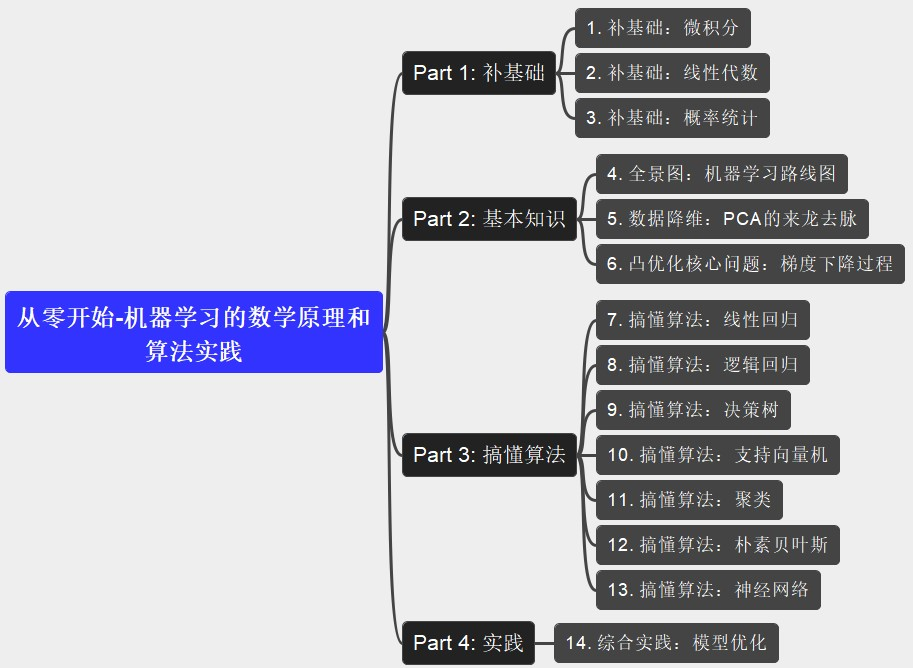
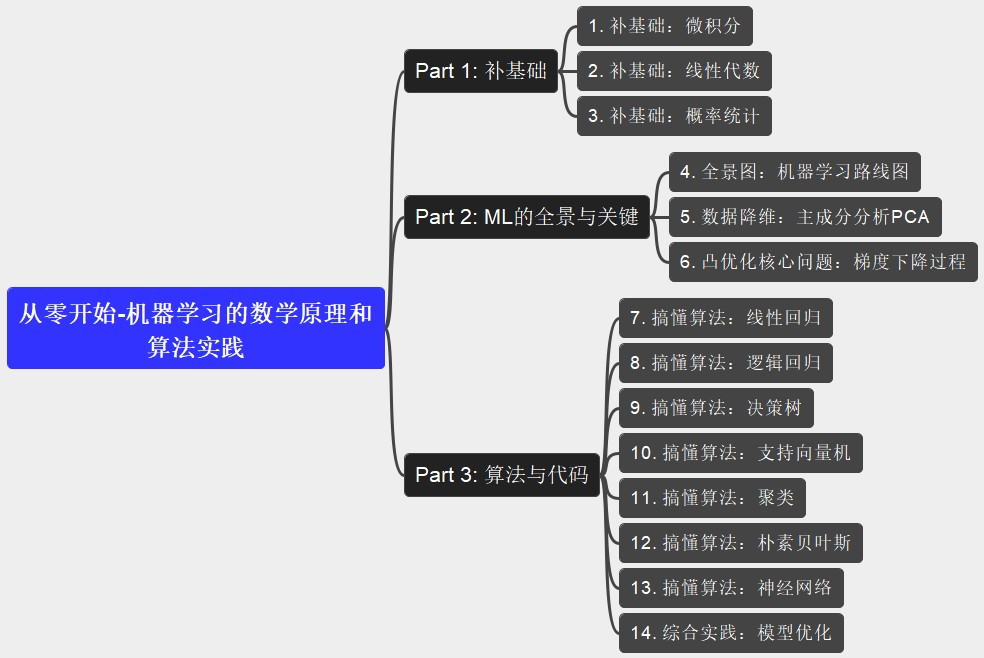
update

Changed region(s): [[0.0, 0.0, 1.0, 1.0]]

diff --git a/ML/从零开始-机器学习的数学原理和算法实践.mm b/ML/从零开始-机器学习的数学原理和算法实践.mm
@@ -83,16 +83,57 @@
 </map_styles>
 </hook>
 <node TEXT="Part 1: 补基础" POSITION="bottom_or_right" ID="ID_1837430732" CREATED="1733052768808" MODIFIED="1733052780844">
-<node TEXT="1. 补基础：微积分" POSITION="bottom_or_right" ID="ID_220490043" CREATED="1733052524035" MODIFIED="1733052595216"/>
+<node TEXT="1. 补基础：微积分" POSITION="bottom_or_right" ID="ID_220490043" CREATED="1733052524035" MODIFIED="1733052595216">
+<node TEXT="1.1 导数" ID="ID_125107977" CREATED="1733053779894" MODIFIED="1733053782966">
+<node TEXT="导数典型的应用场景就是对瞬时速度的求解" ID="ID_154356424" CREATED="1733056272078" MODIFIED="1733056295729">
+<arrowlink DESTINATION="ID_1980856802"/>
+</node>
+<node TEXT="导数描述了自变量的微小变化导致因变量微小变化的关系" ID="ID_1580927264" CREATED="1733057015495" MODIFIED="1733057039115"/>
+<node TEXT="复合函数求导" ID="ID_100216516" CREATED="1733057481259" MODIFIED="1733057488197">
+<node TEXT="加法法则" ID="ID_1727643337" CREATED="1733057488204" MODIFIED="1733057496851">
+<node TEXT="基本函数相加形成的复合函数导数等于基本函数导数之和" ID="ID_1178242810" CREATED="1733057556103" MODIFIED="1733057580899"/>
+</node>
+<node TEXT="乘法法则" ID="ID_678040657" CREATED="1733057497034" MODIFIED="1733057505329">
+<node TEXT="基本函数相乘形成的复合函数导数等于“前导后不导加上后导前不导）" ID="ID_639649591" CREATED="1733057647098" MODIFIED="1733057687809"/>
+</node>
+<node TEXT="链式法则" ID="ID_1068872907" CREATED="1733057737535" MODIFIED="1733057743054">
+<node TEXT="基本函数嵌套形成的复合函数等于”外层导数与内层导数依次相乘" ID="ID_1910916928" CREATED="1733057743056" MODIFIED="1733057773582"/>
+</node>
+</node>
+</node>
+<node TEXT="1.2 多元函数" ID="ID_235692767" CREATED="1733053783180" MODIFIED="1733055601666">
+<node TEXT="多元函数偏导数的求解方法就是对一个变量求导时，将其他变量暂时看成固定的参数" ID="ID_1897973693" CREATED="1733058336918" MODIFIED="1733058386002"/>
+<node TEXT="梯度时导数对多元函数的推广，是多元函数对各个自变量求偏导形成的向量" ID="ID_1051169883" CREATED="1733058441265" MODIFIED="1733058635819">
+<node TEXT="梯度就是多变量微分的一般化" ID="ID_1275153766" CREATED="1733058540575" MODIFIED="1733058550408"/>
+<node TEXT="梯度的本意是一个向量，表示某一函数在该点处的方向导数沿着该方向取得最大值，即函数在该点处沿着该方向（此梯度的方向）变化最快，变化率最大（为该梯度的模）" ID="ID_1836924370" CREATED="1733058834600" MODIFIED="1733058916158"/>
+<node TEXT="一般来说，梯度可以定义为一个函数的全部偏导数构成的向量" ID="ID_879298280" CREATED="1733058936431" MODIFIED="1733058968341">
+<arrowlink DESTINATION="ID_1850796973"/>
+</node>
+</node>
+</node>
+<node TEXT="1.3 微积分" ID="ID_1096839104" CREATED="1733055601817" MODIFIED="1733055605546">
+<node TEXT="微分" ID="ID_13952249" CREATED="1733055929253" MODIFIED="1733055934808">
+<node TEXT="求解变速运动的瞬时速度" ID="ID_1980856802" CREATED="1733055961238" MODIFIED="1733055975019">
+<node TEXT="通过引入极限的概念，将瞬时速度定义为平均速度再Δt趋近于0时的极限值" ID="ID_1070544988" CREATED="1733057103118" MODIFIED="1733057158379"/>
+</node>
+<node TEXT="求解曲线上某点处的切线" ID="ID_1483257249" CREATED="1733055975163" MODIFIED="1733055985484"/>
+<node TEXT="求解函数的最大值和最小值" ID="ID_361074232" CREATED="1733055985643" MODIFIED="1733055994563"/>
+</node>
+<node TEXT="积分" ID="ID_1190274913" CREATED="1733055934986" MODIFIED="1733055936655">
+<node TEXT="求解曲线的长度、曲面的面积、物体的体积" ID="ID_898994487" CREATED="1733055936661" MODIFIED="1733055960287"/>
+</node>
+</node>
+<node TEXT="1.4 泰勒公式" ID="ID_443418388" CREATED="1733055605719" MODIFIED="1733055609643"/>
+</node>
 <node TEXT="2. 补基础：线性代数" POSITION="bottom_or_right" ID="ID_1467409539" CREATED="1733052596731" MODIFIED="1733052614127"/>
 <node TEXT="3. 补基础：概率统计" POSITION="bottom_or_right" ID="ID_1065541646" CREATED="1733052553194" MODIFIED="1733052605990"/>
 </node>
-<node TEXT="Part 2: 基本知识" POSITION="bottom_or_right" ID="ID_381890636" CREATED="1733052918836" MODIFIED="1733052932664">
+<node TEXT="Part 2: ML的全景与关键" POSITION="bottom_or_right" ID="ID_381890636" CREATED="1733052918836" MODIFIED="1733053652028">
 <node TEXT="4. 全景图：机器学习路线图" POSITION="bottom_or_right" ID="ID_1113872648" CREATED="1733052618970" MODIFIED="1733052628634"/>
 <node TEXT="5. 数据降维：主成分分析PCA" POSITION="bottom_or_right" ID="ID_177463099" CREATED="1733052628793" MODIFIED="1733053565688"/>
 <node TEXT="6. 凸优化核心问题：梯度下降过程" POSITION="bottom_or_right" ID="ID_1850796973" CREATED="1733052643428" MODIFIED="1733052659739"/>
 </node>
-<node TEXT="Part 3: 搞懂算法" POSITION="bottom_or_right" ID="ID_964886315" CREATED="1733052938526" MODIFIED="1733052946361">
+<node TEXT="Part 3: 算法与代码" POSITION="bottom_or_right" ID="ID_964886315" CREATED="1733052938526" MODIFIED="1733053681393">
 <node TEXT="7. 搞懂算法：线性回归" POSITION="bottom_or_right" ID="ID_1507730532" CREATED="1733052662530" MODIFIED="1733052672862"/>
 <node TEXT="8. 搞懂算法：逻辑回归" POSITION="bottom_or_right" ID="ID_177724172" CREATED="1733052673016" MODIFIED="1733052686020"/>
 <node TEXT="9. 搞懂算法：决策树" POSITION="bottom_or_right" ID="ID_1252391628" CREATED="1733052688466" MODIFIED="1733052694444"/>
@@ -100,8 +141,6 @@
 <node TEXT="11. 搞懂算法：聚类" POSITION="bottom_or_right" ID="ID_493263634" CREATED="1733052708792" MODIFIED="1733052716303"/>
 <node TEXT="12. 搞懂算法：朴素贝叶斯" POSITION="bottom_or_right" ID="ID_364298765" CREATED="1733052716451" MODIFIED="1733052727180"/>
 <node TEXT="13. 搞懂算法：神经网络" POSITION="bottom_or_right" ID="ID_1695771444" CREATED="1733052729019" MODIFIED="1733052735316"/>
-</node>
-<node TEXT="Part 4: 实践" POSITION="bottom_or_right" ID="ID_910655342" CREATED="1733052951856" MODIFIED="1733052962814">
 <node TEXT="14. 综合实践：模型优化" POSITION="bottom_or_right" ID="ID_1225785543" CREATED="1733052739591" MODIFIED="1733052756318"/>
 </node>
 </node>

diff --git a/README.md b/README.md
@@ -1,4 +1,4 @@
-# AI - ML - DL
+# AI - ML - DL and Data Science
 
 Learning repository for Artificial Intelligence (AI), Machine Learning (ML) and Deep Learning (DL)
 
